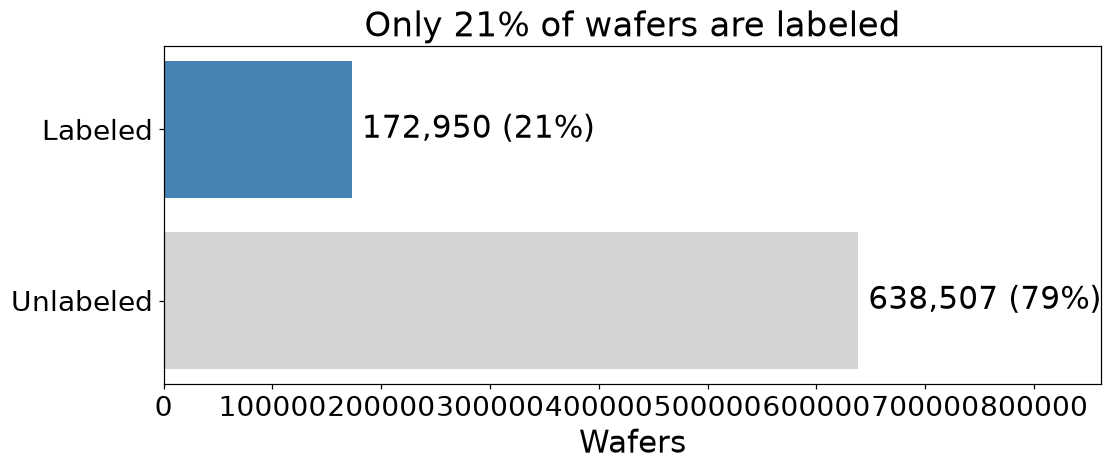
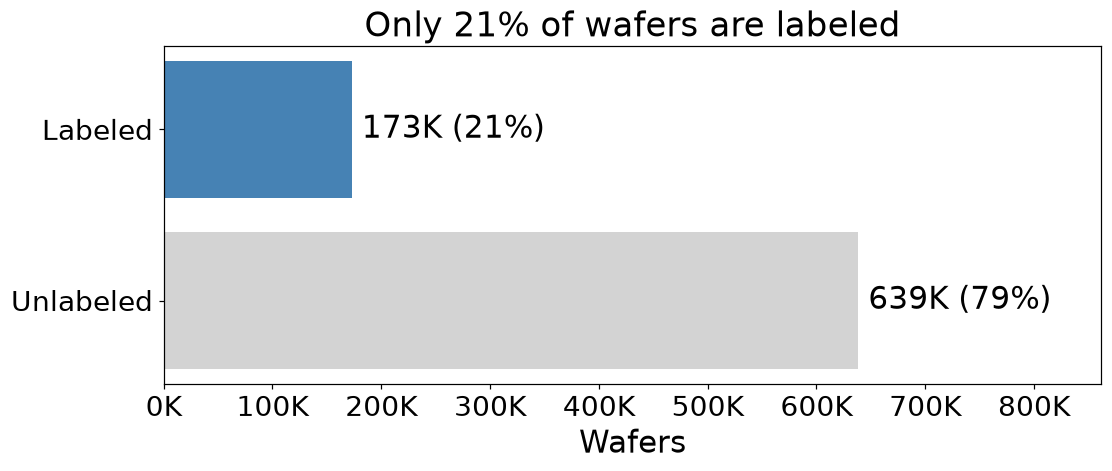
Finalize EDA: 9 reviewed findings with figures

diff --git a/src/data/eda.py b/src/data/eda.py
@@ -1,17 +1,19 @@
-"""Exploratory data analysis for WM-811K: classes, example maps, map sizes, wafer index.
+"""Exploratory data analysis for WM-811K: entry point and class-level plots.
 
-Lot-level analysis and label noise live in eda_lots.py. Run: python -m src.data.eda
+Pattern-level plots live in eda_patterns.py, lot-level plots in eda_lots.py.
+Run: python -m src.data.eda
 """
 import json
 
 import matplotlib.pyplot as plt
 import pandas as pd
 import seaborn as sns
+from matplotlib.ticker import FuncFormatter
 
-from src.config import METRICS_DIR, RANDOM_SEED, WAFERS_PARQUET
-from src.data import eda_lots
-from src.data.load import load_wafers, map_from_row
-from src.data.plot_utils import DEFECTS, FONT_SIZE, draw_map, save, setup_style
+from src.config import METRICS_DIR, WAFERS_PARQUET
+from src.data import eda_lots, eda_patterns
+from src.data.load import load_wafers
+from src.data.plot_utils import CLASSES, DEFECTS, FONT_SIZE, display, save, setup_style
 
 META_COLS = ["wafer_id", "lot_name", "wafer_index", "die_size", "failure_type", "map_h", "map_w"]
 
@@ -35,8 +37,9 @@ def plot_labeled_share(meta: pd.DataFrame) -> dict:
     bars = ax.barh(["Unlabeled", "Labeled"], [n_unl, n_lab], color=["lightgray", "steelblue"])
     for bar, n in zip(bars, [n_unl, n_lab]):
         ax.text(bar.get_width(), bar.get_y() + bar.get_height() / 2,
-                f" {n:,} ({n / len(meta):.0%})", va="center")
+                f" {n / 1000:.0f}K ({n / len(meta):.0%})", va="center")
     ax.set_xlim(0, n_unl * 1.35)
+    ax.xaxis.set_major_formatter(FuncFormatter(lambda x, _: f"{x / 1000:.0f}K"))
     ax.set_xlabel("Wafers")
     ax.set_title("Only 21% of wafers are labeled")
     save(fig, "01a_labeled_share.png")
@@ -46,54 +49,18 @@ def plot_labeled_share(meta: pd.DataFrame) -> dict:
 def plot_class_distribution(meta: pd.DataFrame) -> dict:
     """Bar chart of labeled classes on a log scale."""
     counts = meta["failure_type"].value_counts()
+    counts.index = [display(c) for c in counts.index]
     fig, ax = plt.subplots(figsize=(15, 7))
     sns.barplot(x=counts.index, y=counts.values, ax=ax, color="steelblue")
     ax.set_yscale("log")
-    ax.set_title("Labeled classes (log scale): 65x gap between Edge-Ring and Near-full")
-    ax.set_ylabel("Wafers")
+    ax.set_title("Labeled classes: ~1000x gap between O.K. and Near-full")
+    ax.set_ylabel("Log number of wafers")
     ax.set_xlabel("Pattern")
     ax.tick_params(axis="x", rotation=35)
     for i, v in enumerate(counts.values):
         ax.text(i, v, f"{v:,}", ha="center", va="bottom", fontsize=FONT_SIZE - 4)
     save(fig, "01_class_distribution.png")
     return {k: int(v) for k, v in counts.items()}
-
-
-def plot_examples(samples: pd.DataFrame, n_per_class: int) -> None:
-    """Grid of example wafer maps: one row per class."""
-    classes = DEFECTS + ["none"]
-    fig, axes = plt.subplots(len(classes), n_per_class,
-                             figsize=(n_per_class * 2.6, len(classes) * 2.6))
-    for r, cls in enumerate(classes):
-        rows = samples[samples["failure_type"] == cls]
-        for c in range(n_per_class):
-            axes[r, c].axis("off")
-            if c < len(rows):
-                draw_map(axes[r, c], map_from_row(rows.iloc[c]))
-        axes[r, 0].text(-0.1, 0.5, cls, transform=axes[r, 0].transAxes,
-                        ha="right", va="center", fontsize=FONT_SIZE + 2)
-    fig.suptitle("Example wafer maps (yellow = defective die)", y=1.0)
-    save(fig, "02_example_maps.png")
-
-
-def plot_map_sizes(meta: pd.DataFrame) -> dict:
-    """Histogram of map height/width and the most common shapes."""
-    shapes = meta.groupby(["map_h", "map_w"]).size().nlargest(8)
-    fig, (ax1, ax2) = plt.subplots(1, 2, figsize=(20, 6))
-    ax1.hist(meta["map_h"], bins=60, alpha=0.6, label="height")
-    ax1.hist(meta["map_w"], bins=60, alpha=0.6, label="width")
-    ax1.set_yscale("log")
-    ax1.set_title("Map dimensions (dies)")
-    ax1.set_xlabel("Dies")
-    ax1.legend()
-    labels = [f"{h}x{w}" for h, w in shapes.index]
-    ax2.barh(labels[::-1], shapes.values[::-1], color="steelblue")
-    ax2.set_title("8 most common shapes (of 632)")
-    ax2.set_xlabel("Wafers")
-    save(fig, "03_map_sizes.png")
-    return {"distinct_shapes": int(meta.groupby(["map_h", "map_w"]).ngroups),
-            "height_pct": meta["map_h"].quantile([0.05, 0.5, 0.95]).astype(int).tolist(),
-            "width_pct": meta["map_w"].quantile([0.05, 0.5, 0.95]).astype(int).tolist()}
 
 
 def plot_defect_by_index(meta: pd.DataFrame) -> None:
@@ -112,18 +79,14 @@ def plot_defect_by_index(meta: pd.DataFrame) -> None:
 def main() -> None:
     """Run all EDA steps and save figures + a JSON summary."""
     setup_style()
-    n_examples = 6
     meta = load_meta()
     summary = {"labeled_share": plot_labeled_share(meta),
                "class_counts": plot_class_distribution(meta),
-               "map_sizes": plot_map_sizes(meta),
                "lots": eda_lots.run(meta)}
     plot_defect_by_index(meta)
 
-    maps = load_maps(DEFECTS + ["none"])
-    samples = maps.groupby("failure_type", group_keys=False)[maps.columns] \
-        .apply(lambda g: g.sample(min(n_examples, len(g)), random_state=RANDOM_SEED))
-    plot_examples(samples, n_examples)
+    maps = load_maps(CLASSES)
+    summary["map_sizes"] = eda_patterns.run(meta, maps)
     eda_lots.plot_label_noise(maps)
 
     METRICS_DIR.mkdir(parents=True, exist_ok=True)

diff --git a/src/data/eda_patterns.py b/src/data/eda_patterns.py
@@ -1,0 +1,61 @@
+"""Pattern-level EDA: representative examples and map sizes."""
+import matplotlib.pyplot as plt
+import pandas as pd
+
+from src.config import RANDOM_SEED, WAFERS_PARQUET
+from src.data.load import map_from_row
+from src.data.plot_utils import CLASSES, FONT_SIZE, defect_fraction, display, draw_map, save
+
+
+def representative_examples(maps: pd.DataFrame, n: int = 3, pool: int = 500) -> pd.DataFrame:
+    """Per class, pick n wafers whose defect share is closest to the class median (typical, not extreme)."""
+    picks = []
+    for cls in CLASSES:
+        group = maps[maps["failure_type"] == cls]
+        group = group.sample(min(pool, len(group)), random_state=RANDOM_SEED).copy()
+        group["frac"] = group.apply(lambda r: defect_fraction(map_from_row(r)), axis=1)
+        distance = (group["frac"] - group["frac"].median()).abs()
+        picks.append(group.loc[distance.nsmallest(n).index])
+    return pd.concat(picks)
+
+
+def plot_examples(examples: pd.DataFrame, n: int = 3) -> None:
+    """Grid of typical wafer maps: one column per class, n rows."""
+    fig, axes = plt.subplots(n, len(CLASSES), figsize=(len(CLASSES) * 2.9, n * 3.1))
+    for c, cls in enumerate(CLASSES):
+        rows = examples[examples["failure_type"] == cls]
+        for r in range(n):
+            draw_map(axes[r, c], map_from_row(rows.iloc[r]))
+        axes[0, c].set_title(display(cls), fontsize=FONT_SIZE + 2)
+    fig.suptitle("Typical wafer map of each class (yellow = defective die)", y=1.02)
+    save(fig, "02_example_maps.png")
+
+
+def plot_map_sizes(meta: pd.DataFrame) -> dict:
+    """Show small / median / large die grids side by side, plus the most common grid shapes."""
+    quantiles = {"Small (5%)": 0.05, "Median": 0.5, "Large (95%)": 0.95}
+    ids = [int((meta["die_size"] - meta["die_size"].quantile(q)).abs().idxmin())
+           for q in quantiles.values()]
+    examples = pd.read_parquet(WAFERS_PARQUET, filters=[("wafer_id", "in", ids)]) \
+        .set_index("wafer_id").loc[ids]
+    shapes = meta.groupby(["map_h", "map_w"]).size().nlargest(8)
+
+    fig = plt.figure(figsize=(26, 7.5))
+    grid = fig.add_gridspec(1, 4, width_ratios=[1, 1, 1, 1.7], wspace=0.3)
+    for i, (name, (_, row)) in enumerate(zip(quantiles, examples.iterrows())):
+        title = f"{name}\n{row['map_h']}x{row['map_w']} grid\n{int(row['die_size']):,} dies"
+        draw_map(fig.add_subplot(grid[0, i]), map_from_row(row), title)
+    ax = fig.add_subplot(grid[0, 3])
+    ax.barh([f"{h}x{w}" for h, w in shapes.index][::-1], shapes.values[::-1], color="steelblue")
+    ax.set_title("8 most common grids (of 632)")
+    ax.set_xlabel("Wafers")
+    fig.suptitle("There are 632 different grid shapes", y=1.05)
+    save(fig, "03_map_sizes.png")
+    return {"distinct_shapes": int(meta.groupby(["map_h", "map_w"]).ngroups),
+            "dies_per_wafer_pct": meta["die_size"].quantile([0.05, 0.5, 0.95]).astype(int).tolist()}
+
+
+def run(meta: pd.DataFrame, maps: pd.DataFrame) -> dict:
+    """Run pattern-level EDA and return summary numbers."""
+    plot_examples(representative_examples(maps))
+    return plot_map_sizes(meta)

diff --git a/src/data/eda_lots.py b/src/data/eda_lots.py
@@ -4,10 +4,11 @@ import math
 import matplotlib.pyplot as plt
 import numpy as np
 import pandas as pd
+from matplotlib.ticker import FuncFormatter
 
 from src.config import RANDOM_SEED, WAFERS_PARQUET
 from src.data.load import map_from_row
-from src.data.plot_utils import DEFECTS, FONT_SIZE, defect_fraction, draw_map, save
+from src.data.plot_utils import DEFECTS, FONT_SIZE, defect_fraction, display, draw_map, save
 
 
 def dominant_pattern_share(meta: pd.DataFrame) -> pd.Series:
@@ -33,7 +34,7 @@ def plot_wafers_per_lot(meta: pd.DataFrame) -> None:
     fig, ax = plt.subplots(figsize=(13, 6))
     ax.hist(sizes, bins=np.arange(0.5, 26.5, 1), color="steelblue")
     ax.set_yscale("log")
-    ax.set_title("Most lots hold 25 wafers (standard lot size)")
+    ax.set_title("47% of lots hold a full 25 wafers (standard lot size)")
     ax.set_xlabel("Wafers in lot")
     ax.set_ylabel("Lots (log scale)")
     save(fig, "05_wafers_per_lot.png")
@@ -46,7 +47,8 @@ def plot_labeling_per_lot(counts: pd.Series) -> None:
     for bar, n in zip(bars, counts.values):
         ax.text(bar.get_width(), bar.get_y() + bar.get_height() / 2, f" {n:,}", va="center")
     ax.set_xlim(0, counts.max() * 1.25)
-    ax.set_title("Labeling was done per lot")
+    ax.set_title("Labeling was mostly done per lot")
+    ax.xaxis.set_major_formatter(FuncFormatter(lambda x, _: f"{x / 1000:.0f}K"))
     ax.set_xlabel("Lots")
     save(fig, "06_labeling_per_lot.png")
 
@@ -78,8 +80,7 @@ def plot_example_lot(lot_name: str) -> None:
     rows = math.ceil(len(lot) / cols)
     fig, axes = plt.subplots(rows, cols, figsize=(cols * 3.8, rows * 4.0))
     for ax, (_, row) in zip(axes.ravel(), lot.iterrows()):
-        label = row["failure_type"] or "unlabeled"
-        draw_map(ax, map_from_row(row), f"#{row['wafer_index']} {label}")
+        draw_map(ax, map_from_row(row), f"#{row['wafer_index']} {display(row['failure_type'])}")
     for ax in axes.ravel()[len(lot):]:
         ax.axis("off")
     fig.suptitle(f"One lot ({lot_name}): the same pattern repeats across wafers", y=1.0)
@@ -93,14 +94,14 @@ def plot_label_noise(maps: pd.DataFrame, n: int = 5) -> None:
     for df in (center, clean):
         df["frac"] = df.apply(lambda r: defect_fraction(map_from_row(r)), axis=1)
     groups = [("Labeled 'Center'\n(weakest: tiny cluster)", center.nsmallest(n, "frac")),
-              ("Labeled 'none'\n(looks like Random)", clean.nlargest(n, "frac"))]
+              ("Labeled 'O.K.'\n(looks like Random)", clean.nlargest(n, "frac"))]
     fig, axes = plt.subplots(2, n, figsize=(n * 3.6, 2 * 4.2))
     for r, (name, rows) in enumerate(groups):
         for c, (_, row) in enumerate(rows.iterrows()):
             draw_map(axes[r, c], map_from_row(row), f"{row['frac']:.0%} defective")
         axes[r, 0].text(-0.1, 0.5, name, transform=axes[r, 0].transAxes,
                         ha="right", va="center", fontsize=FONT_SIZE)
-    fig.suptitle("Ambiguous labels: very weak patterns vs. heavily defective 'none'", y=1.02)
+    fig.suptitle("Ambiguous labels: very weak patterns vs. heavily defective 'O.K.'", y=1.02)
     save(fig, "09_label_noise.png")
 
 

diff --git a/src/data/preprocess.py b/src/data/preprocess.py
@@ -1,0 +1,13 @@
+"""Map-level preprocessing utilities shared by EDA and model training."""
+import numpy as np
+
+
+def resize_nearest(wafer_map: np.ndarray, size: int) -> np.ndarray:
+    """Resize a wafer map to size x size with nearest-neighbour sampling.
+
+    Nearest-neighbour keeps the discrete values (0/1/2) intact, unlike interpolation.
+    """
+    h, w = wafer_map.shape
+    rows = (np.arange(size) * h / size).astype(int)
+    cols = (np.arange(size) * w / size).astype(int)
+    return wafer_map[np.ix_(rows, cols)]

diff --git a/src/data/plot_utils.py b/src/data/plot_utils.py
@@ -5,7 +5,14 @@ import numpy as np
 from src.config import FIGURES_DIR
 
 DEFECTS = ["Center", "Donut", "Edge-Loc", "Edge-Ring", "Loc", "Near-full", "Random", "Scratch"]
+CLASSES = ["none"] + DEFECTS
+DISPLAY_NAMES = {"none": "O.K.", None: "unlabeled"}
 FONT_SIZE = 20  # 2x matplotlib's default of 10
+
+
+def display(cls: str | None) -> str:
+    """Human-readable class name for figures ('none' is shown as 'O.K.')."""
+    return DISPLAY_NAMES.get(cls, cls)
 
 
 def setup_style() -> None:

diff --git a/README.md b/README.md
@@ -35,7 +35,7 @@ It is read once; all later steps load the parquet (12x smaller, columnar, fast).
   |---|---|---|
   | `lotName` | `lot_name` | Lot-based train/test split |
   | `waferIndex` | `wafer_index` (int) | Position of the wafer within its lot |
-  | `dieSize` | `die_size` | Yield impact estimation |
+  | `dieSize` | `die_size` | Number of dies on the wafer (verified: equals the die count on the map); used for yield impact |
   | `trianTestLabel` | `orig_split` | Original split (typo in source); not used, since it is not lot-based |
   | – | `wafer_id` | Unique wafer identifier |
 
@@ -54,17 +54,25 @@ Decision: use the unlabeled 79% for self-supervised pretraining.
 
 ![Labeled share](results/figures/01a_labeled_share.png)
 
-**2. Strong class imbalance:** Edge-Ring 9,680 vs Near-full 149 (65x).
+**2. Strong class imbalance:** O.K. 147,431 vs Near-full 149 (~1000x); among defects,
+Edge-Ring 9,680 vs Near-full 149 (65x).
 Decision: F1 macro as primary metric, class weighting.
 
 ![Class distribution](results/figures/01_class_distribution.png)
 
-**3. Each pattern has a distinct spatial signature.**
+**3. Each pattern has a distinct look.** Three typical wafers per class (closest to the
+class median defect share, not hand-picked). `none` is shown as **O.K.** in all figures.
+Scratches are thin and often faint, making Scratch visually the hardest class.
+Some wafers look elliptical: the map only counts dies per row/column and draws each die
+as a square, so wafers with rectangular dies appear stretched. Resizing removes this.
 
 ![Example maps](results/figures/02_example_maps.png)
 
-**4. 632 distinct map shapes** (median ~36x35, 95th pct ~88).
-Decision: resize all maps to a fixed size before the CNN.
+**4. Each product has its own die grid** (632 distinct shapes). Wafers are the same
+physical size, but products with smaller dies fit more of them: from 515 dies (25x27
+grid) to 5,633 dies (88x81 grid).
+Decision: resize all maps to one fixed size before the CNN (nearest-neighbour, so the
+0/1/2 values are preserved).
 
 ![Map sizes](results/figures/03_map_sizes.png)
 
@@ -73,11 +81,13 @@ Decision: no global position effect; excursions must be detected per lot.
 
 ![Defect rate by index](results/figures/04_defect_rate_by_index.png)
 
-**6. Most lots hold 25 wafers** (standard lot size).
+**6. A full lot is 25 wafers** (standard lot size): 47% of lots are full, and 75% of
+all wafers sit in lots of 24–25. Smaller lots (peaks at 1 and 12–13 wafers) are likely
+split or partially recorded lots.
 
 ![Wafers per lot](results/figures/05_wafers_per_lot.png)
 
-**7. Labeling was done per lot:** 35,531 lots fully unlabeled, 4,685 fully labeled, 6,077 mixed.
+**7. Labeling was mostly done per lot (87% of lots are all-or-nothing):** 35,531 lots fully unlabeled, 4,685 fully labeled, 6,077 mixed.
 Decision: a lot-based split matches how labels were produced.
 
 ![Labeling per lot](results/figures/06_labeling_per_lot.png)
